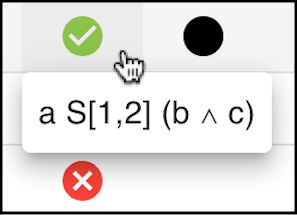
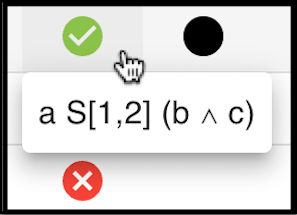
Updating pictures of Help page

Changed region(s): [[0.0, 0.0, 1.0, 1.0]]

diff --git a/vis/public/index.html b/vis/public/index.html
@@ -24,7 +24,7 @@
       Learn how to configure a non-root public URL by running `npm run build`.
     -->
     <script
-      src="explanator2.bc.js"
+      src="explanator2/explanator2.bc.js"
       type="text/javascript">
     </script>
     <title>Explanator2 - explanator of verdicts</title>

diff --git a/vis/public/Help.md b/vis/public/Help.md
@@ -64,7 +64,7 @@ You may further inspect Boolean verdicts until you reach atomic propositions.
 Multiple Boolean verdicts can be explored simultaneously, so the Explanator2 additionally highlights the overall Boolean verdict
 (i.e., the context) of the current inspection:
 
-<img alt="Verdict inspection" src="./assets/click.png" style="margin:0px 25px; max-width: 230px; height: auto;" />
+<img alt="Verdict inspection" src="./assets/click_context.png" style="margin:0px 25px; max-width: 230px; height: auto;" />
 
 In the monitoring state, three different buttons are displayed:
 
